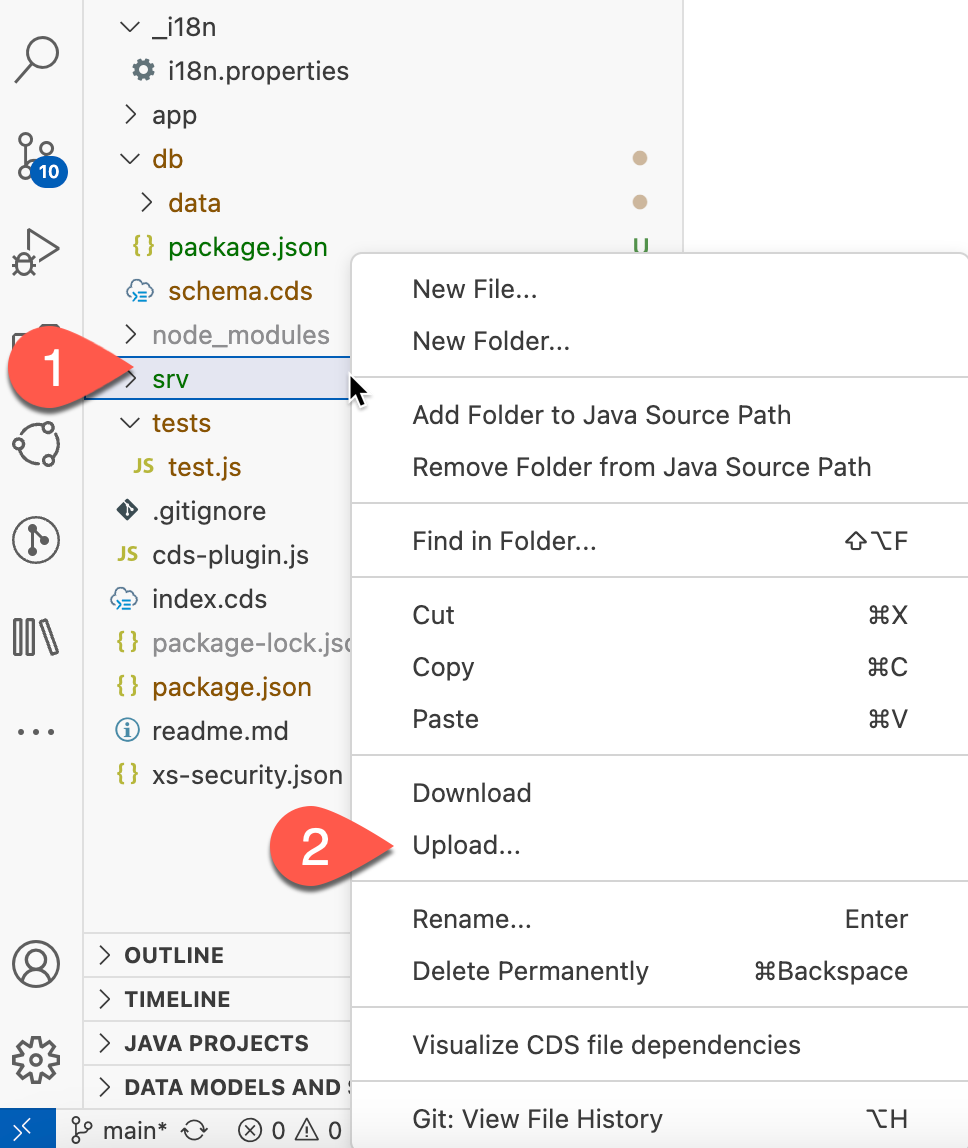
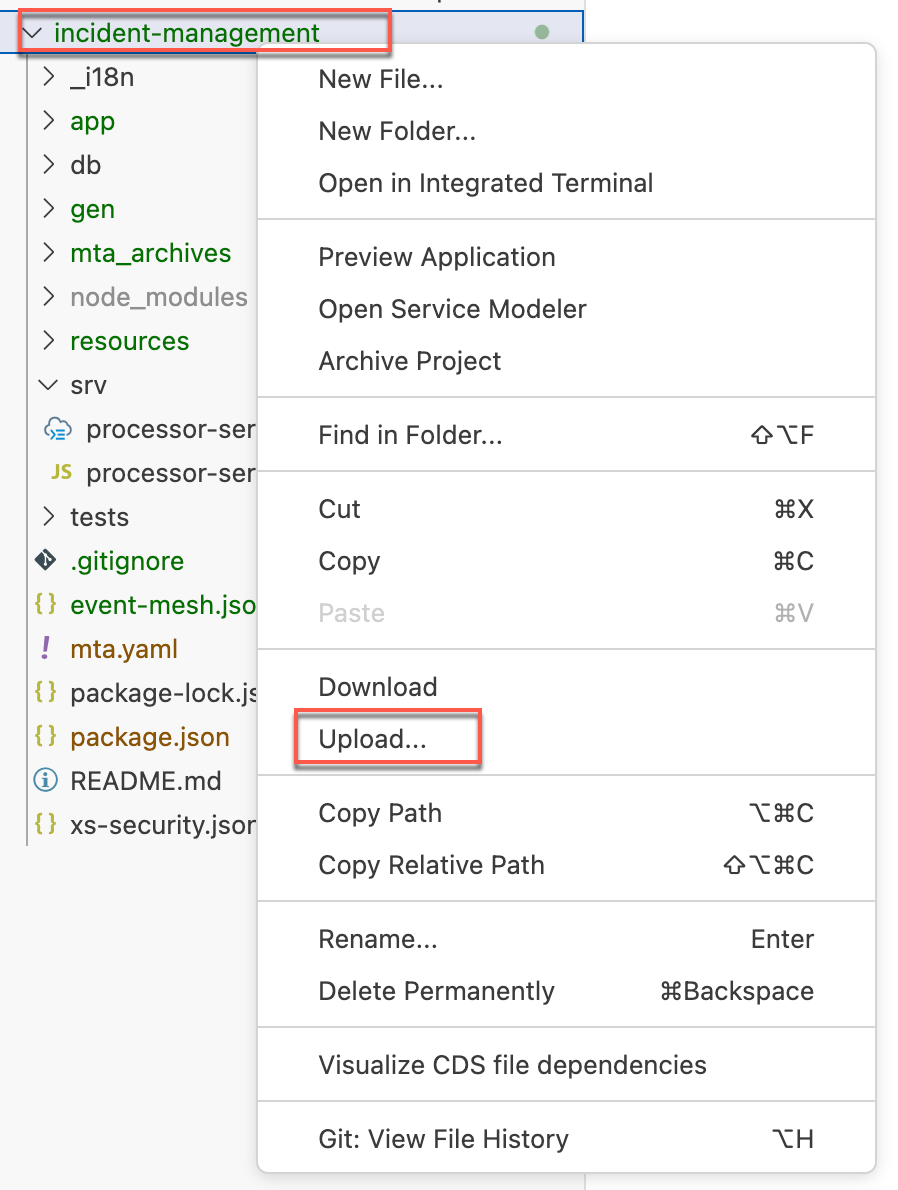
validation fixes for remote service

diff --git a/documentation/remote-service/install-mock-server/install-mock-server-kyma.md b/documentation/remote-service/install-mock-server/install-mock-server-kyma.md
@@ -120,7 +120,7 @@ In essence, these are the steps you need to follow:
 
       * **Name** = *[Some destination name depending on your mission]*
       * **Type** = HTTP
-      * **URL** = *[service url for the installed mock server]* e.g. https://\<The application route of the mock server\>/v2/op-api-business-partner-srv/
+      * **URL** = *[service url for the installed mock server]* e.g. https://\<The application route of the mock server\>
       * **Proxy Type** = Internet
       * **Authentication** = NoAuthentication
 

diff --git a/documentation/remote-service/install-mock-server/install-mock-server-cf.md b/documentation/remote-service/install-mock-server/install-mock-server-cf.md
@@ -80,7 +80,7 @@ Now you need to create a destination to the the mock server.
 
       * **Name** = *[Some destination name depending on your mission]*
       * **Type** = HTTP
-      * **URL** = *[URL for your OData entities]* e.g. https://\<The application route of the mock server\>/v2/op-api-business-partner-srv/
+      * **URL** = *[URL for your OData entities]* e.g. https://\<The application route of the mock server\>
       * **Proxy Type** = Internet
       * **Authentication** = NoAuthentication
 

diff --git a/documentation/remote-service/s4hana-cloud-to-btp-connectivity/README.md b/documentation/remote-service/s4hana-cloud-to-btp-connectivity/README.md
@@ -35,6 +35,8 @@ You need a user with administrator access for the SAP BTP global account and the
 
 6. Configure the communication flow. In the **Communication Scenario Groups** dropdown menu, select **All Communication Scenarios**.
 
+   ![approve](./images/approve.png)
+
 7. Choose **Get Token**.
    SAP BTP generates an integration token so the SAP S/4HANA Cloud system administrator can configure integration with SAP BTP from your SAP S/4HANA Cloud system. 
 

diff --git a/documentation/remote-service/develop/extend-app.md b/documentation/remote-service/develop/extend-app.md
@@ -57,7 +57,7 @@
   ```
 
 7. Import the Business Partner API to your project.
-   * In the project explorer, right-click on srv folder and select **Upload...**
+   * In the project explorer, right-click on the project's root folder and select **Upload...**
 
      ![upload API](./images/upload-api.png)
 
